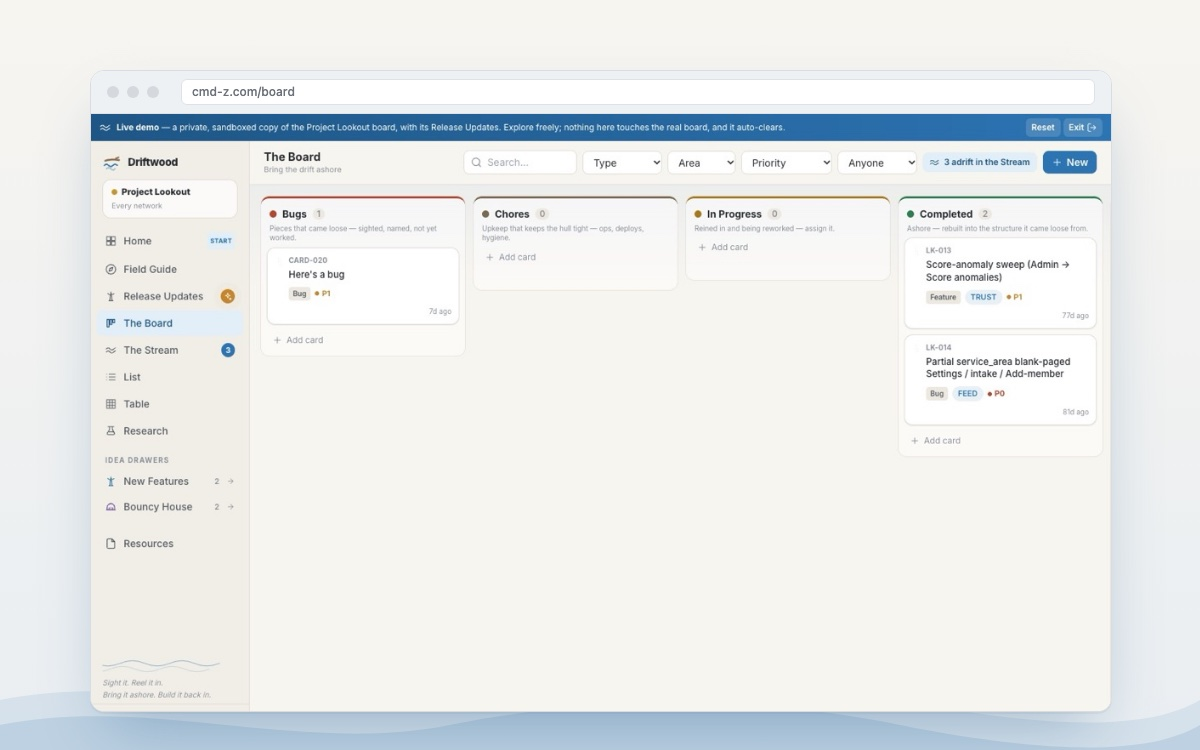
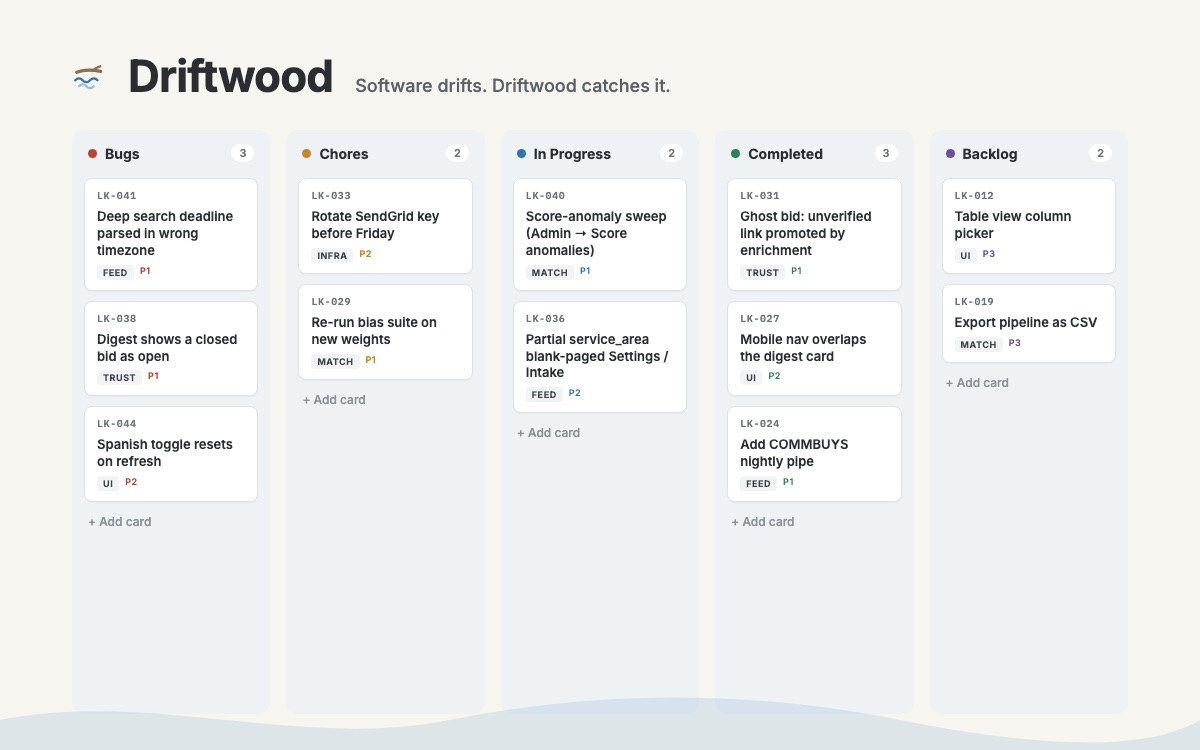
Projects: thumbnail cards for all projects; richer Driftwood board mockup with title

diff --git a/src/work/unicorn-po-dispenser.md b/src/work/unicorn-po-dispenser.md
@@ -17,6 +17,8 @@ quote:
   text: The Hope Group didn't show up and lecture us. They listened first, then built something around how we actually work. As a woman-owned business I needed a partner who understood both the technology and the real-world constraints I operate under. I found exactly that here.
   name: Ellen Cynar
   role: UNICORN
+thumb: /assets/img/thumbs/unicorn-po-dispenser.jpg
+thumb_alt: Unicorn PO Dispenser card showing documents becoming a clean record
 ---
 UNICORN is a Massachusetts women-owned distributor led by Ellen Cynar. Growth brought a problem that got worse the faster the business moved: purchase orders arriving from every customer in a different shape, as PDFs, as forwarded emails, as portal exports, each one demanding manual re-entry into the CRM, the accounting system, and a shared billing inbox. Every order was a chance for a typo, and every afternoon disappeared into retyping.
 

diff --git a/src/work/jewn-bug.md b/src/work/jewn-bug.md
@@ -20,6 +20,8 @@ quote:
   text: Working with The Hope Group changed how I think about what's possible for my business. Rev. Hope took the time to understand exactly where I was, not where he assumed I'd be, and built a plan around my reality. I walked away with a roadmap I could actually use.
   name: Nicole Wiggins
   role: Owner, Jewn Enterprises
+thumb: /assets/img/thumbs/jewn-bug.jpg
+thumb_alt: JEWN BUG card with a mockup of the morning bid feed
 ---
 Jewn Enterprises is a Black-owned painting company in West Roxbury, run by Nicole Wiggins, working residential, commercial, and municipal jobs across the Boston area. Public work is where a crew like hers grows, and the opportunities exist. Finding them is the problem: they are scattered across city, state, and federal portals, each with its own format, and reading them all is unpaid, full-time labor that a working owner cannot do.
 

diff --git a/src/work/civic-ai-access-lab.md b/src/work/civic-ai-access-lab.md
@@ -18,6 +18,8 @@ quote:
   text: They are not traveling to these communities as outside experts. They are members of these communities, sitting beside their neighbors, building things together. It is not a feature of this program. It is the program.
   name: From the program design
   role: The Loop Lab and The Hope Group
+thumb: /assets/img/thumbs/civic-ai-access-lab.jpg
+thumb_alt: Civic AI Access Lab card with a map of Boston neighborhoods
 ---
 Most digital equity programs run a workshop and leave. The Civic AI Access Lab is built on what we learned delivering AI training for the City of Boston's Office of Economic Opportunity and Inclusion: business owners benefit most when they work on their own problems, with someone beside them, and leave with something working.
 

diff --git a/src/work/civic-ai-corps.md b/src/work/civic-ai-corps.md
@@ -13,6 +13,8 @@ services:
   - Training and credentialing
   - Placement with small businesses
 outcome: A paid, credentialed pathway into AI-adjacent careers for opportunity youth, and a standing corps of neighbors small businesses can call on.
+thumb: /assets/img/thumbs/civic-ai-corps.jpg
+thumb_alt: Civic AI Corps card with a row of apprentices
 ---
 The Civic AI Access Lab proves the model one cohort at a time. The Civic AI Corps is what it becomes at scale: a standing corps of apprentices, recruited from Boston's historically underserved neighborhoods, trained by the lab in practical AI and in The Hope Standard, credentialed, and then placed with small businesses for a term of service.
 

diff --git a/src/work/becma.md b/src/work/becma.md
@@ -16,6 +16,8 @@ quote:
   name: Mackenson Charles
   role: Black Economic Council of Massachusetts
 kind: Partnership
+thumb: /assets/img/thumbs/becma.jpg
+thumb_alt: BECMA and The Hope Group partnership card with 100 percent engagement and recommendation
 ---
 The Black Economic Council of Massachusetts is the lab's deepest partnership. It began with training: a series of live, hands-on sessions for BECMA member businesses on using AI for lead generation, marketing, grants, procurement, and operations. Participants rated it a 100 percent recommendation rate, and several of their words are on this site.
 

diff --git a/src/work/medical-education.md b/src/work/medical-education.md
@@ -14,6 +14,8 @@ link_label: Course details and registration
 outcome: Administrators who can automate documentation and compliance work without breaking the rules that govern it.
 kind: Course
 status: Next cohort January 14 to February 18, 2027
+thumb: /assets/img/thumbs/medical-education.jpg
+thumb_alt: AI for GME leaders card with six session dates
 ---
 Graduate medical education runs on documentation: accreditation requirements, policies, handbooks, evaluations, and recruitment. AI can take real weight off the people who manage it, but only inside the rules that make medical education trustworthy.
 
